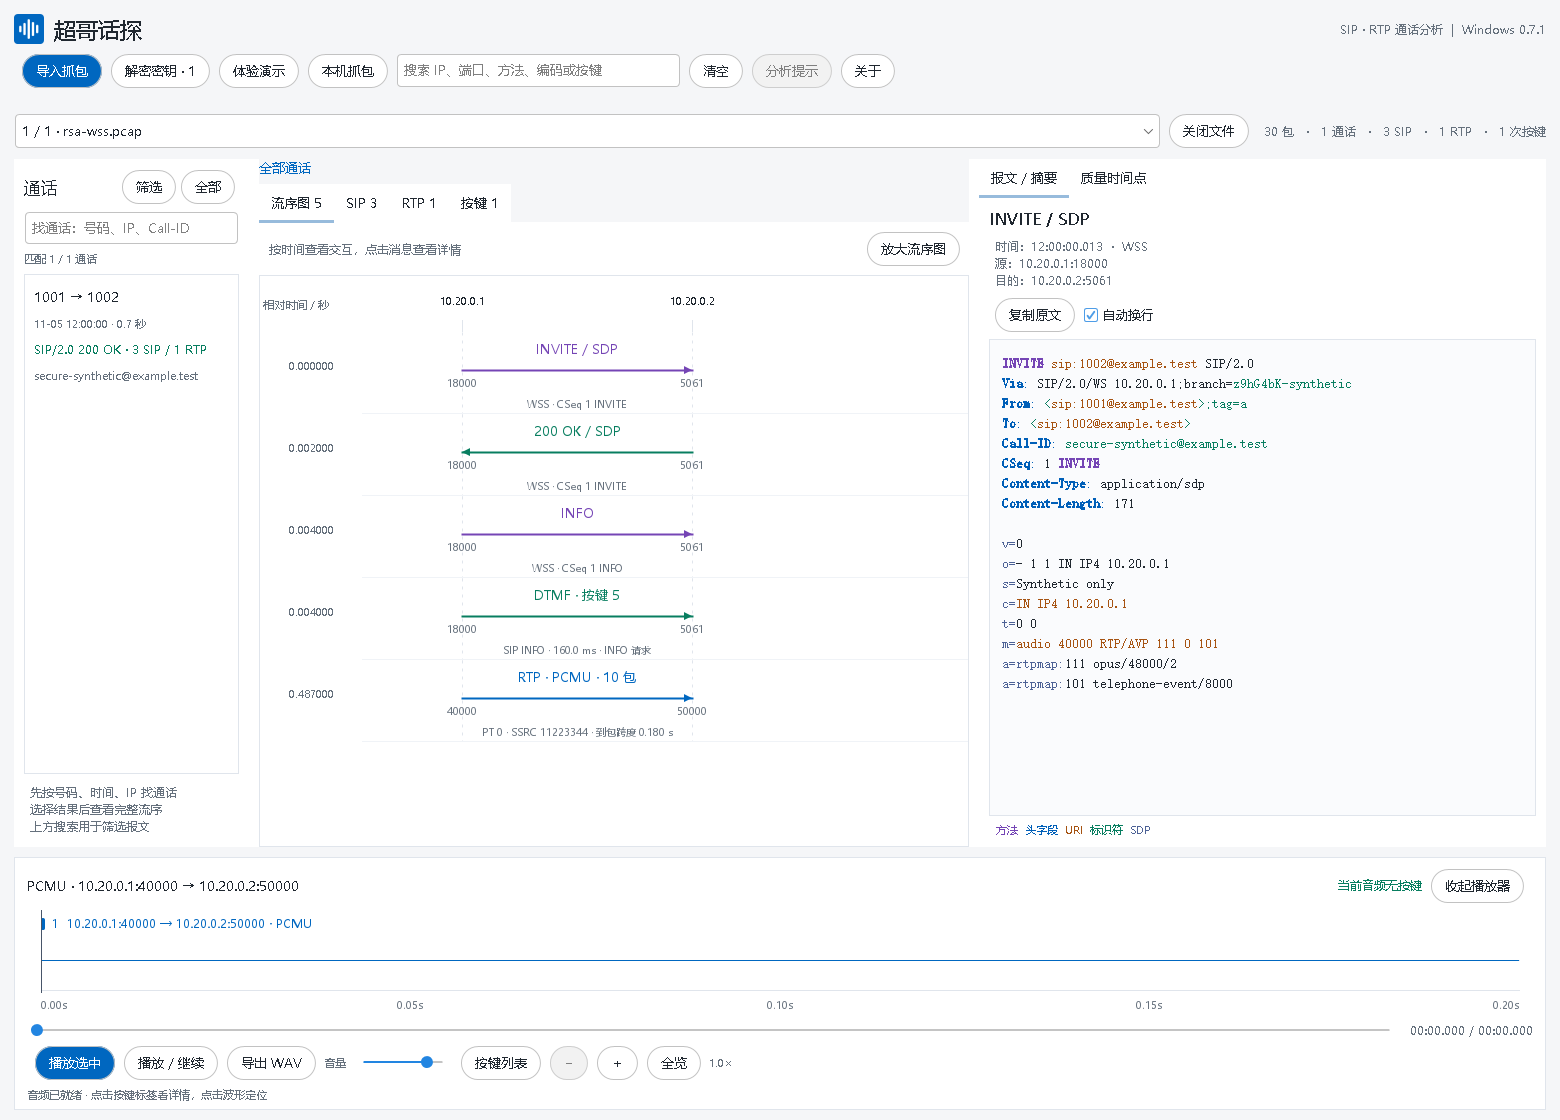
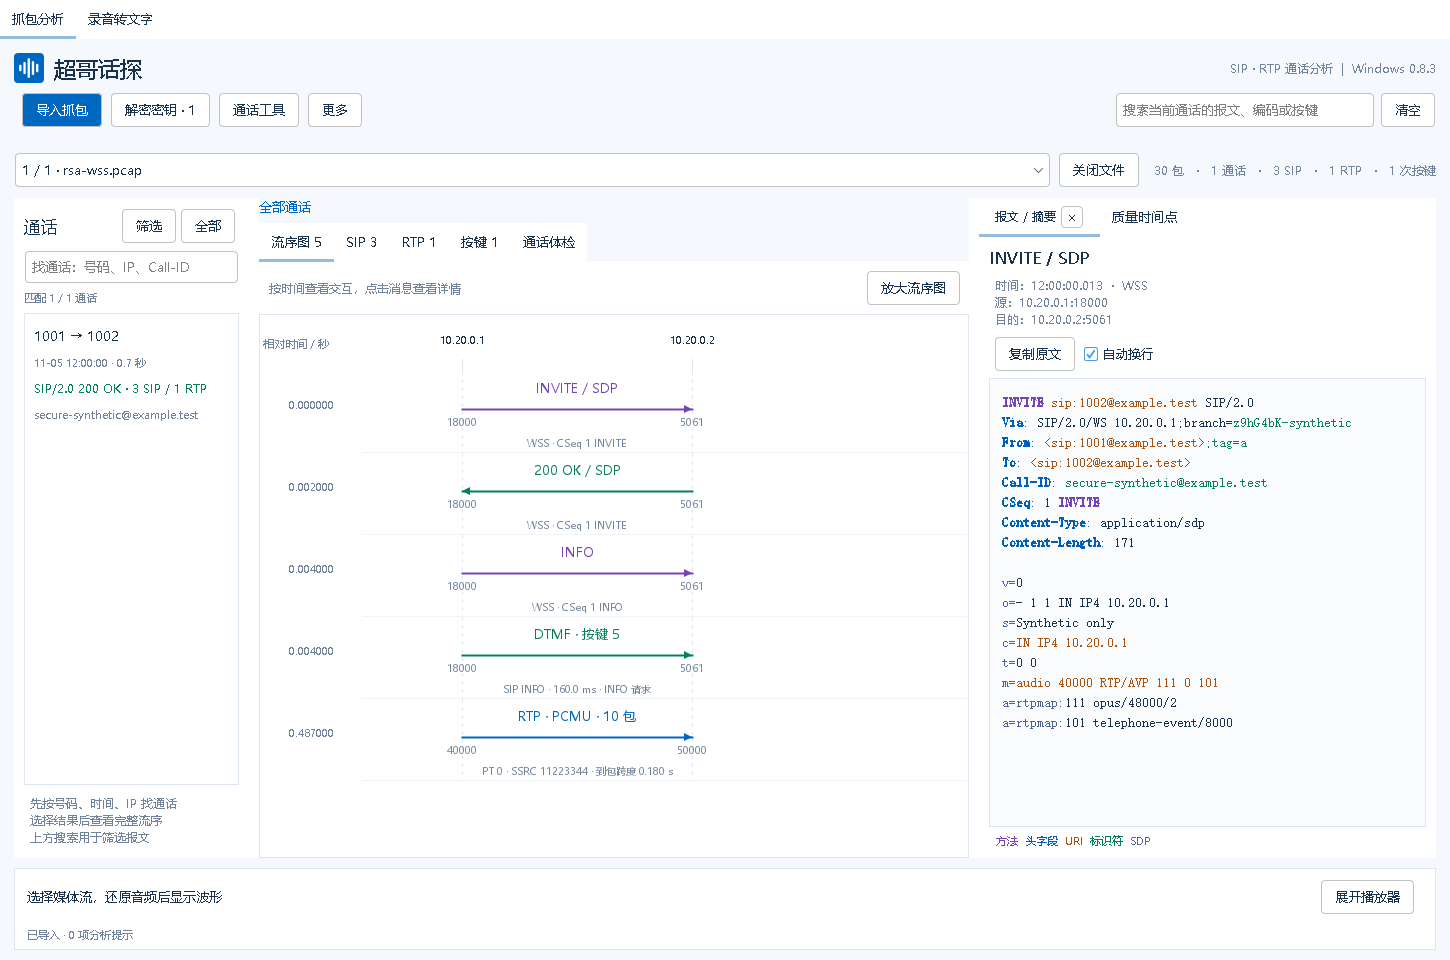
docs: 补充 README 功能示例图片

diff --git a/README.md b/README.md
@@ -26,11 +26,31 @@
 
 ## 界面
 
-![通话体检](docs/images/call-health.png)
+以下截图与波形使用合成演示数据。
 
-![录音转写工作区，使用合成演示数据](docs/images/recording-workspace.png)
+**SIP 流序与彩色报文**
 
 ![SIP 流序与彩色报文](docs/images/sip-flow.png)
+
+**双向 RTP 波形**：上下分路，标记按键、缺包与到达延迟。
+
+![双向 RTP 波形与播放、导出控制](docs/images/rtp-waveform.png)
+
+**三类按键**：区分 RFC 2833 / 4733、SIP INFO 和 In-band DTMF。
+
+![三类按键在双向波形上的类型和位置](docs/images/dtmf-types.png)
+
+**通话体检**：时间、时长、结束方及信令 / 媒体证据。
+
+![通话体检](docs/images/call-health.png)
+
+**RSA / TLS / WSS**：分别导入抓包与密钥，查看还原后的 SIP。
+
+![导入合成 RSA 私钥后还原 WSS 中的 SIP 报文](docs/images/rsa-private-key.png)
+
+**录音转文字**：按声道查看、搜索、回听与导出。
+
+![录音转写工作区，使用合成演示数据](docs/images/recording-workspace.png)
 
 ## 解密与使用范围
 
